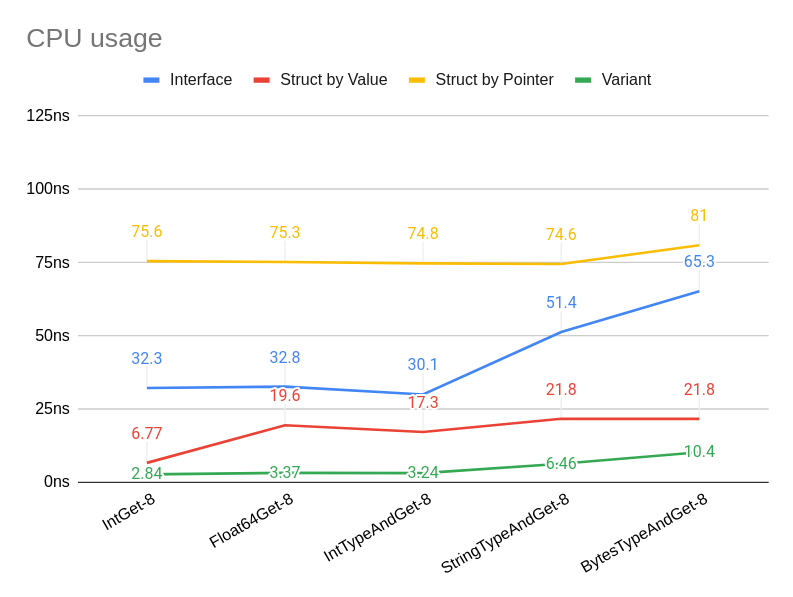
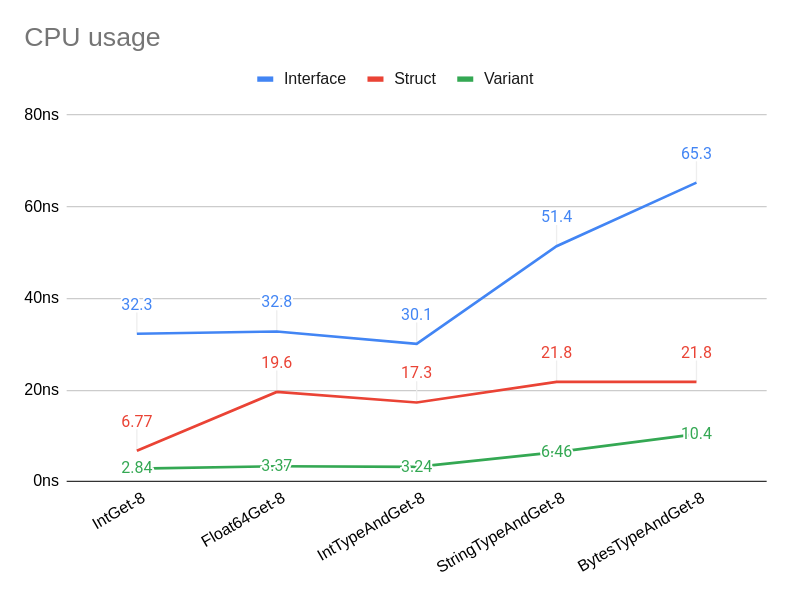
Remove Struct by Pointer from CPU chart
Struct by Pointer was the slowest and is not very useful in the chart.
Interface and Struct are the important ones to compare with.

diff --git a/README.md b/README.md
@@ -40,12 +40,9 @@ this and several alternate variant implementations (lower is better):
   interface-based implementation of a variant
   data type (implementations like this are common in Go).
   
-- [Struct by Value](internal/plainstruct/plainstruct.go) - a struct
-  that holds all possible value types plus
-  a tag to store the type of the value. Struct is passed by value.
-  
-- [Struct by Pointer](internal/ptrstruct/ptrstruct.go) - same as
-  above but Struct is passed by pointer.
+- [Struct](internal/plainstruct/plainstruct.go) - a struct
+  that has a field for each possible value type plus
+  a tag to store the type of the value.
 
 - [Variant](variant/variant.go) - this implementation.
 
